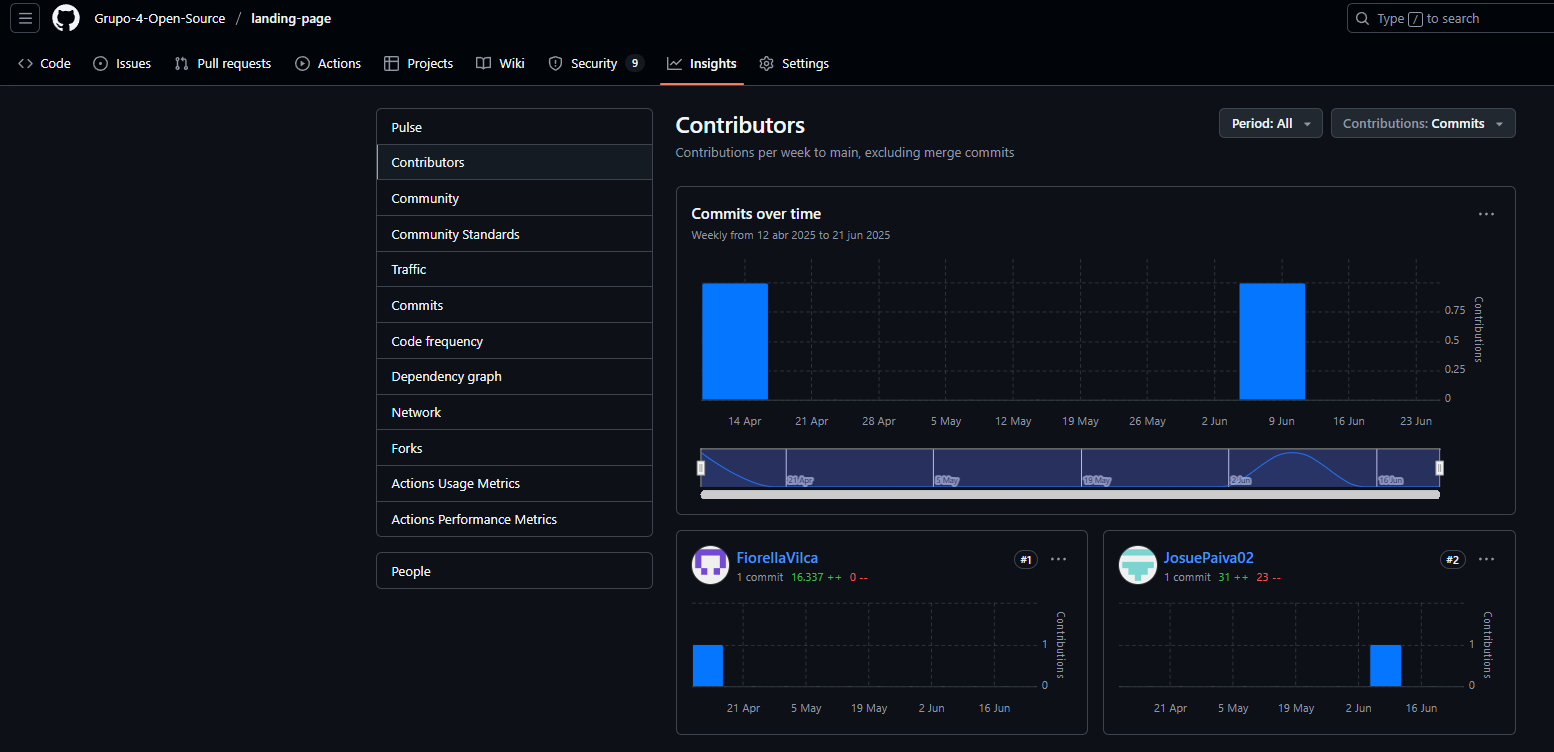
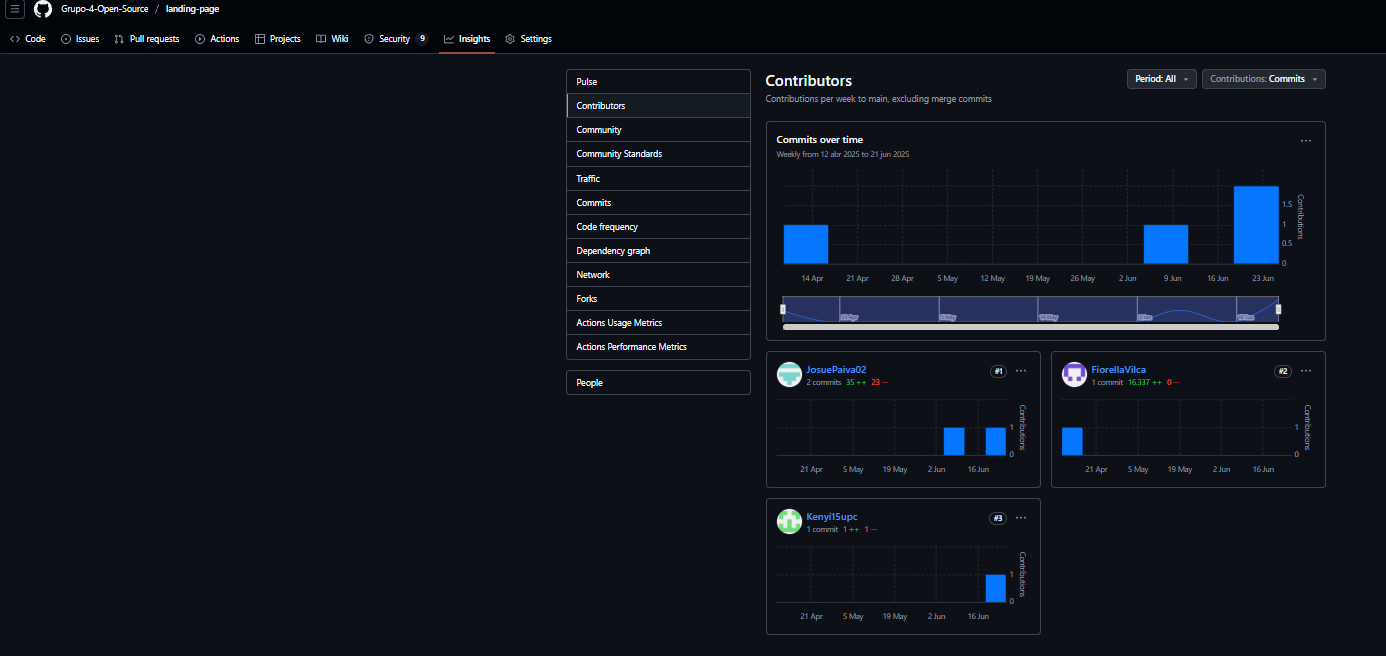
feat: update insights

diff --git a/README.md b/README.md
@@ -24,9 +24,14 @@
 
 ## Registro de Versiones del Informe
 
-| Versión | Fecha | Autor                 | Descripción de modificación       |
-|---------|-------|-----------------------|-----------------------------------|
-| 0.1     | 23/04 | Todos los integrantes | Primera entrega del informe (TB1) |
+| Versión | Fecha | Autor                      | Descripción de modificación       |
+|---------|-------|----------------------------|-----------------------------------|
+| 0.1     | 23/04 | Todos los integrantes      | Primera entrega del informe (TB1) |
+| 1.0     | 23/04 | Todos los integrantes      | Primera entrega del informe (TP1) |
+| 2.0     | 23/06 | Josue Paiva, Kenyi Ramirez | Primera entrega del informe (TB2) |
+| 2.1     | 24/06 | Josue Paiva, Kenyi Ramirez | Segunda entrega del informe (TB2) |
+
+
 
 ## Project Report Collaboration Insights
 
@@ -3731,6 +3736,9 @@ En esta entrega, se realizaron pequeños cambios en la Landing Page. Además de 
 **Sección de Llamada a la acción(Call to Action):**
 ![try.png](assets/execution-evidence-for-sprint-review/sprint3/try.png)
 
+**Sección About The Product Video**
+![lp-atp.png](assets/execution-evidence-for-sprint-review/sprint3/lp-atp.png)
+
 
 - FrontEnd:
 
@@ -4039,12 +4047,13 @@ DEPLOYMENT LINK ingresar desde web application (frontend):https://opennova-front
 Para este sprint se desarrollaron la landing page, frontend y backend. La distribución de commits fue la siguiente:
 
 - **Landing Page:**
-
-![insight-lp.s3.png](assets/execution-evidence-for-sprint-review/sprint3/insight-lp.s3.png)
+- 
+![insight-lp-s3.png](assets/execution-evidence-for-sprint-review/sprint3/insight-lp-s3.png)
 
 ![c-lp-s3.png](assets/execution-evidence-for-sprint-review/sprint3/c-lp-s3.png)
 
 - Josue Paiva: 1 commit
+- Kenyi Ramirez : 1 commit
 
 - **Frontend:**
 
